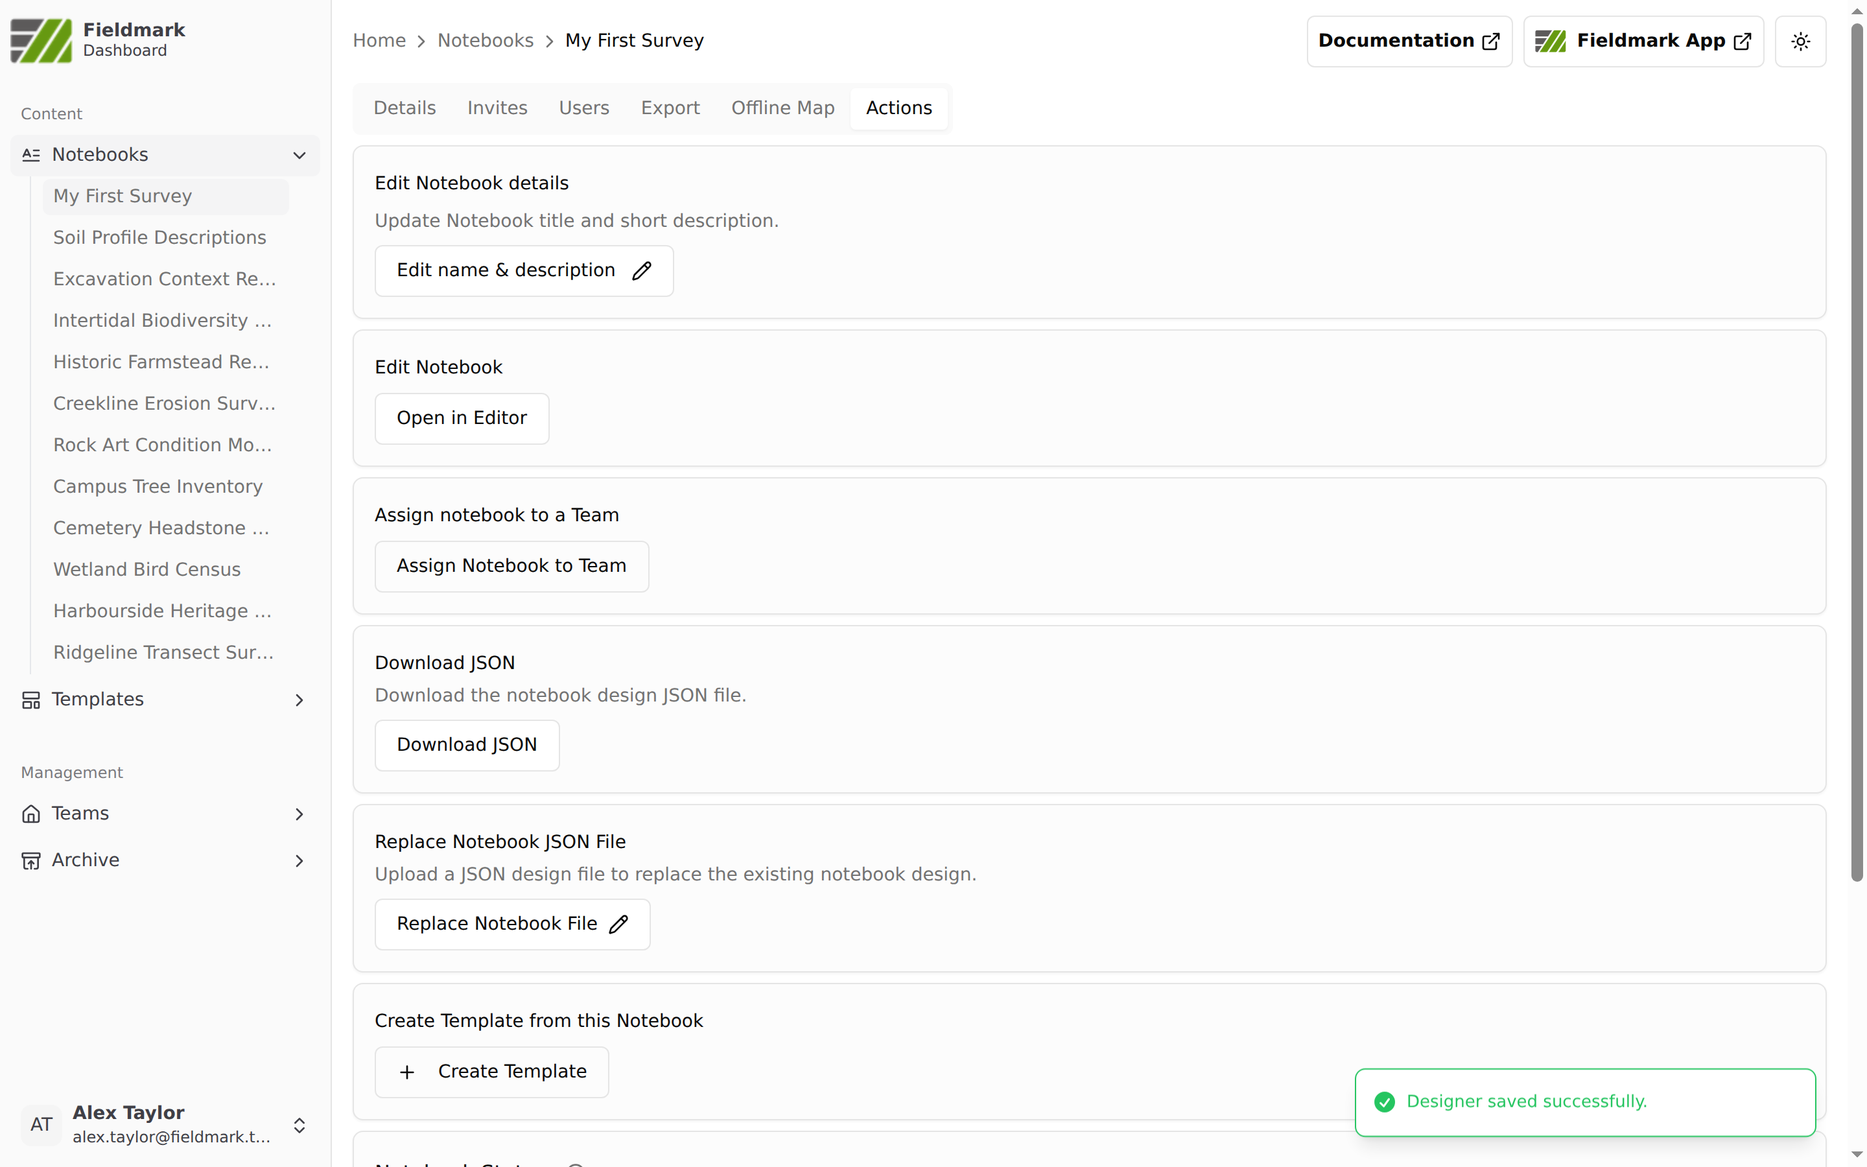
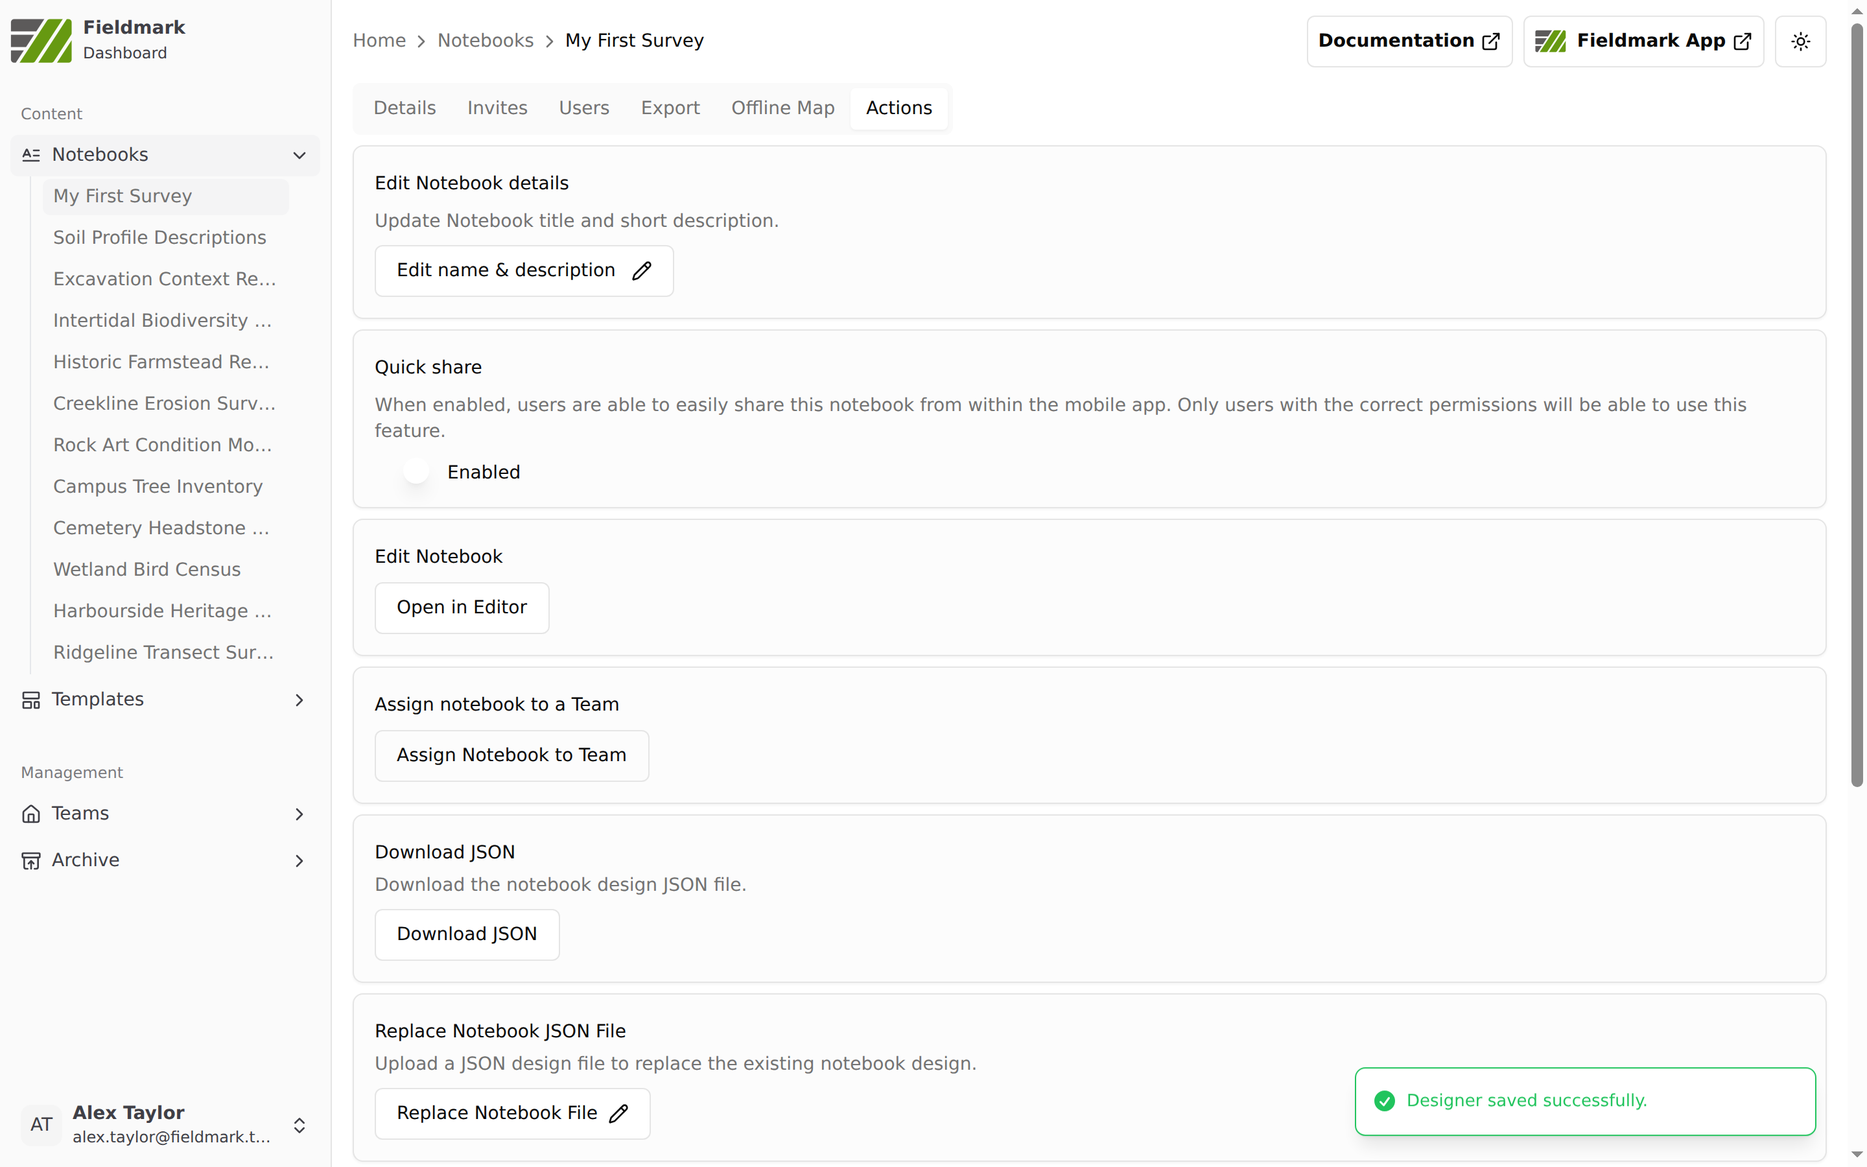
docs: update the first-notebook tutorial for v1.9.1
Brings the tutorial in line with the interface in v1.9.1, for the
hosted service's upgrade from 1.6.x. The photo step now uses the Camera
and Gallery buttons (#2222); the field editor no longer offers "Display
in child records" (#2233); the record view has a STATUS tab (#2238);
quick share adds a panel on the Dashboard's Actions tab, a SHARE THIS
NOTEBOOK panel in the app's settings, and a Share button on the record
list (#2372); and the activation help link is now "Learn more about
activating notebooks". 15 screenshots re-captured at v1.9.1 through the
docs capture specs, with alt text rewritten from the new frames.

Claude-Session: https://claude.ai/code/session_01BLwBnPLbwdVuVeNEfa81Bo

diff --git a/docs/user/authoring/first-notebook-tutorial.md b/docs/user/authoring/first-notebook-tutorial.md
@@ -1,6 +1,6 @@
 # Your First {{Notebook}} in 25-30 Minutes 🚀
 
-*Welcome to {{FAIMS}}! In the next 25-30 minutes, you'll create your first data collection {{notebook}} and enter your first record. No experience needed - just follow along!*
+*Welcome to {{FAIMS}}®! In the next 25-30 minutes, you'll create your first data collection {{notebook}} and enter your first record. No experience needed - just follow along!*
 
 ## What You'll Achieve
 
@@ -170,8 +170,12 @@ Offline Map, and Actions.
 1. Click the **Actions** tab
 2. Click **Open in Editor**
 
+The Actions tab also has a **Quick share** panel, set to **Enabled** by
+default. It lets users with the right permissions share the {{notebook}} from
+within the data collection app. You can leave it as it is for this tutorial.
+
 ```{screenshot} quickstart/qs-006-actions-tab-desktop.png
-:alt: Actions tab on the {{notebook}} page, with panels for Edit {{Notebook}} details, Edit {{Notebook}} containing the Open in Editor button, Assign {{notebook}} to a Team, Download JSON, Replace {{Notebook}} JSON File, Create Template from this {{Notebook}}, {{Notebook}} Status showing Open, and Archive {{Notebook}}
+:alt: Actions tab on the {{notebook}} page, with panels for Edit {{Notebook}} details, Quick share with a switch labelled Enabled, Edit {{Notebook}} containing the Open in Editor button, Assign {{notebook}} to a Team, Download JSON, Replace {{Notebook}} JSON File, Create Template from this {{Notebook}}, {{Notebook}} Status showing Open with a Close {{Notebook}} button, and Archive {{Notebook}} with its button unavailable until the {{notebook}} is closed
 :align: right
 :width: 100%
 ```
@@ -187,7 +191,8 @@ the main interface elements:
 - **Toolbar**: **Save** (blue), **Cancel**, **Undo**, and **Redo** buttons on
   the left, with a **Preview** toggle beside them
 - **Search design...**: A search box at the top right for finding fields in
-  large {{notebooks}} (press `/` to jump to it)
+  large {{notebooks}} (once your {{notebook}} has some content, press `/` to jump
+  to it)
 - **The Forms panel** with its blue **+ New Form** button. Two more panels,
   **Sections** and **Fields**, appear below it once you create your first
   form; each has its own blue "+ New ..." button
@@ -359,12 +364,12 @@ editor.
 >
 > 💡 **More in the field editor**: You'll also see Short answer / Long answer
 > options, a Default Text setting, a Voice-to-text toggle (on by default for
-> text fields), and an **Advanced controls** group: Display in child
-> records, Copy value to new records, Annotation, and Uncertainty. We'll use
-> Annotation and Uncertainty on the next field.
+> text fields), and an **Advanced controls** group: Copy value to new
+> records, Annotation, and Uncertainty. We'll use Annotation and Uncertainty
+> on the next field.
 
 ```{screenshot} quickstart/qs-012-site-name-editor-desktop.png
-:alt: Expanded Site Name field in the field editor: Label reads Site Name, Field ID reads Site-Name, Helper Text reads Enter the official site designation or name, Short answer is selected, Required is ticked, and the Advanced controls group shows unticked Display in child records, Copy value to new records, Annotation, and Uncertainty boxes above a Voice-to-text section
+:alt: Expanded Site Name field in the field editor, with Text field and Required badges under its header: Label reads Site Name, Field ID reads Site-Name, Helper Text reads Enter the official site designation or name, Short answer is selected above an empty Default Text box, Required is ticked, and the Advanced controls group shows unticked Copy value to new records, Annotation, and Uncertainty boxes above a Voice-to-text section with Enable voice-to-text input for this field ticked
 :align: right
 :width: 100%
 ```
@@ -430,7 +435,7 @@ Now let's add a choice field where users select one option from a list.
    - **Uncertainty**: Toggle ON ☑ (allows flagging uncertain observations)
 
 ```{screenshot} quickstart/qs-015-site-type-editor-desktop.png
-:alt: Expanded Site Type field showing the options table with Habitation, Mortuary, Ceremonial, Workshop/Industrial, Defensive, Agricultural, and Other in order, each row carrying a drag handle, up and down arrows, and edit and delete icons; below sit the Add option box with its Add button, an Add Other Option button, the Select-one display mode choice with Expanded checklist selected, and ticked Required, Annotation, and Uncertainty boxes with Annotation Label reading annotation and Uncertainty Label reading uncertainty
+:alt: Expanded Site Type field showing the options table with Habitation, Mortuary, Ceremonial, Workshop/Industrial, Defensive, Agricultural, and Other in order, each row carrying a drag handle, up and down arrows, and edit and delete icons; below sit the Add option box with its Add button, an Add Other Option button, the Select-one display mode choice with Expanded checklist selected, Required ticked, and an Advanced controls group with Copy value to new records unticked and Annotation and Uncertainty ticked, above Annotation Label and Uncertainty Label boxes reading annotation and uncertainty
 :align: right
 :width: 100%
 ```
@@ -450,7 +455,7 @@ Now let's add a choice field where users select one option from a list.
 >
 > 💡 **Pro Tip**: You can use markdown in option text - try `**Important Option**` to make text bold!
 
-**Quick Save**: Click the **SAVE** button at the left of the toolbar to save your progress.
+**Quick Save**: Click the **Save** button at the left of the toolbar to save your progress.
 
 #### Field 3: Site Photo (Camera)
 
@@ -478,7 +483,7 @@ Let's add the ability to capture photos - essential for field documentation!
    - **Annotation Label**: Change from "annotation" to **"Photo notes"**
 
 ```{screenshot} quickstart/qs-017-site-photo-editor-desktop.png
-:alt: Site Photo field expanded in the field editor beneath the collapsed Site Name and Site Type fields: Label reads Site Photo, Field ID reads Site-Photo, Helper Text reads Photograph the site for documentation, Required is unticked, and Annotation is ticked with the Annotation Label changed to Photo notes
+:alt: Site Photo field expanded in the field editor beneath the collapsed Site Name and Site Type fields, with a TakePhoto badge under its header: Label reads Site Photo, Field ID reads Site-Photo, Helper Text reads Photograph the site for documentation, Required is unticked, and in the Advanced controls group Copy value to new records and Uncertainty are unticked whilst Annotation is ticked, with the Annotation Label changed to Photo notes
 :align: right
 :width: 100%
 ```
@@ -536,7 +541,7 @@ Now let's configure how the form behaves when collecting data.
 3. **Configure the settings**:
    - **Layout Style**: Leave as **"Tabs"** (sections display as tabs for organised navigation)
    - **Summary Fields**: Click the dropdown and select both **"Site Name"** and **"Site Type"** (these will show in the record list table)
-   - **Human-Readable ID Field**: Select **"Site Name"** (provides meaningful record labels instead of opaque, computer-generated identifiers (UUIDs)). Only **required fields that hold text** are offered in this dropdown (Site Type qualifies too), which is why we made Site Name required
+   - **Human-Readable ID Field**: Select **"Site Name"** (provides meaningful record labels instead of opaque, computer-generated identifiers (UUIDs)). Only **required fields that hold text** are offered in this dropdown, which is why we made Site Name required. A required single-choice field such as Site Type also qualifies, so you will see it listed too
    - **Overview Map**: Leave as **"Show spatial features"** (controls whether
      spatial data from this form, such as points, lines, and polygons,
      appears on the {{notebook}}'s overview map)
@@ -585,7 +590,7 @@ Now let's configure how the form behaves when collecting data.
    **"Open in Editor"** again
 
 ```{screenshot} quickstart/qs-022-designer-saved-desktop.png
-:alt: {{Notebook}} page on the Actions tab immediately after saving, with a green message in the bottom corner reading Designer saved successfully
+:alt: {{Notebook}} page on the Actions tab immediately after saving, showing the Edit {{Notebook}} details, Quick share, Edit {{Notebook}}, Assign {{notebook}} to a Team, Download JSON, and Replace {{Notebook}} JSON File panels, with a green message in the bottom-right corner reading Designer saved successfully
 :align: right
 :width: 100%
 ```
@@ -610,7 +615,7 @@ Your {{notebook}} has been saved in the Editor. Now let's activate it for data c
 2. **Log in** with the same credentials you used to access the Editor
 
 ```{screenshot} quickstart/qs-023-app-active-zero-desktop.png
-:alt: {{FAIMS}} app My {{Notebooks}} screen: server name {{FAIMS}}, green REFRESH and ADD NOTEBOOK buttons, a Learn about activating and de-activating {{notebooks}} link, the ACTIVE tab selected with a count of 0 and an empty table reading No rows, a NOT ACTIVE tab with a count, and text beneath the table explaining that {{notebooks}} need to be activated before they can be used
+:alt: {{FAIMS}} app My {{Notebooks}} screen: server name {{FAIMS}}, green REFRESH and ADD NOTEBOOK buttons, a Learn more about activating {{notebooks}} link, the ACTIVE tab selected with a count of 0 and an empty table reading No rows, a NOT ACTIVE tab with a count of 12, and text beneath the table explaining that {{notebooks}} in the NOT ACTIVE tab need to be activated before they can be used
 :align: right
 :width: 100%
 ```
@@ -618,12 +623,12 @@ Your {{notebook}} has been saved in the Editor. Now let's activate it for data c
 ### Activate Your {{Notebook}}
 
 When the app opens, you'll see the "My {{Notebooks}}" screen, with **REFRESH**
-and **ADD NOTEBOOK** buttons, a "Learn about activating/de-activating
-{{notebooks}}" link, and two tabs: **ACTIVE** and **NOT ACTIVE** (the number in
+and **ADD NOTEBOOK** buttons, a "Learn more about activating {{notebooks}}"
+link, and two tabs: **ACTIVE** and **NOT ACTIVE** (the number in
 parentheses on each tab is a count of {{notebooks}}):
 
 ```{screenshot} quickstart/qs-024-not-active-tab-desktop.png
-:alt: NOT ACTIVE tab listing {{notebooks}} by name, each row with a green ACTIVATE button; My First Survey sits at the top, above other {{notebooks}} that carry short descriptions
+:alt: NOT ACTIVE tab selected with a count of 12, listing {{notebooks}} by name, each row with a green-outlined ACTIVATE button; My First Survey sits at the top, above other {{notebooks}} that carry short descriptions
 :align: right
 :width: 100%
 ```
@@ -650,12 +655,12 @@ parentheses on each tab is a count of {{notebooks}}):
 3. **You'll be automatically taken to the "ACTIVE" tab** - your {{notebook}} now appears in the Active list
 
 > 💡 {{Notebooks}} can also be **de-activated** later from the {{notebook}}'s
-> Settings tab (see [{{Notebook}} Settings](#notebook-settings) below). The app's
-> header has a "Learn about activating/de-activating {{notebooks}}" link if you
+> Settings tab (see [{{Notebook}} Settings](#notebook-settings) below). The My
+> {{Notebooks}} screen has a "Learn more about activating {{notebooks}}" link if you
 > want the details.
 
 ```{screenshot} quickstart/qs-026-active-one-desktop.png
-:alt: ACTIVE tab with a count of 1, listing My First Survey under the Name column header
+:alt: ACTIVE tab selected with a count of 1, listing My First Survey under the Name column header, beside a NOT ACTIVE tab now counting 11
 :align: right
 :width: 100%
 ```
@@ -686,6 +691,9 @@ Now let's open your {{notebook}} to start collecting data:
 
 You'll see the record list interface:
 
+- **Share** button (green, top right): opens a dialogue that generates a
+  temporary QR code for sharing the {{notebook}} with another user. It does the
+  same job as the Quick share panel on the SETTINGS tab
 - **ADD NEW SITE DETAILS** button - for creating new records
 - **REFRESH RECORDS** button - refreshes the displayed list from the local
   database (useful to see records synced in the background)
@@ -700,7 +708,7 @@ You'll see the record list interface:
 - Because this is a brand new {{notebook}}, the table is empty
 
 ```{screenshot} quickstart/qs-027-record-list-empty-desktop.png
-:alt: Empty record list for My First Survey: an orange ADD NEW SITE DETAILS button, a REFRESH RECORDS button, tabs MY SITE DETAILSS (0), MAP, DETAILS, and SETTINGS, a Search record data box with a Sort By dropdown reading Recently Updated, and an empty table with Sync, Site Name, Site Type, Created, Created By, Last Updated, and Last Updated By columns reading No rows, with pagination reading Rows per page 25 and 0 to 0 of 0
+:alt: Empty record list for My First Survey: a Back link beside the {{notebook}} name and a green Share button at the top right, above an orange ADD NEW SITE DETAILS button, a REFRESH RECORDS button, tabs MY SITE DETAILSS (0), MAP, DETAILS, and SETTINGS, a Search record data box with a Sort By dropdown reading Recently Updated, and an empty table with Sync, Site Name, Site Type, Created, Created By, Last Updated, and Last Updated By columns reading No rows, with pagination reading Rows per page 25 and 0 to 0 of 0
 :align: right
 :width: 100%
 ```
@@ -743,17 +751,19 @@ You'll see the data entry form with:
    - This is a powerful feature for capturing data quality context!
 
    ```{screenshot} quickstart/qs-029-annotation-interface-desktop.png
-   :alt: Site Type options with the annotation area open below them: the annotation text box contains Surface scatter suggests domestic occupation, but no structures visible, and the uncertainty checkbox beneath it is ticked; further down, the Site Photo section shows No Photos Yet with a green TAKE FIRST PHOTO button
+   :alt: Lower Site Type options with the annotation area open below them: the annotation text box contains Surface scatter suggests domestic occupation, but no structures visible, and the uncertainty checkbox beneath it is ticked; further down, the Site Photo section reads No photos selected yet above two green icon buttons labelled Camera and Gallery
    :align: right
    :width: 100%
    ```
 
 4. **Add a Site Photo**:
    - Scroll to the Site Photo section
-   - You'll see "No Photos Yet" with a **"TAKE FIRST PHOTO"** button
-   - Click the green photo button
-   - Allow camera permissions if asked
-   - Take any photo (even of your desk - this is just practice!)
+   - You'll see "No photos selected yet" with two buttons: **Camera** and
+     **Gallery**
+   - Click **Camera** to take a new photo, or **Gallery** to choose photos
+     already on your device (you can select several at once)
+   - Allow camera or photo access if your device or browser asks
+   - Take or choose any photo (even of your desk - this is just practice!)
    - Note: Site Photo also has a blue dog ear icon for "Photo notes" annotation
 
 ```{screenshot} quickstart/qs-031-record-form-complete-desktop.png
@@ -794,7 +804,7 @@ Congratulations! 🎉 You've just created your first {{FAIMS}} record!
 You're automatically returned to the record list view. Here's what you'll see:
 
 ```{screenshot} quickstart/qs-032-record-list-unsynced-desktop.png
-:alt: Record list with the MY SITE DETAILSS tab counting 1: the single row shows an orange three-dot icon in the Sync column, Test Location Alpha under Site Name, Habitation under Site Type, and matching Created and Last Updated timestamps, with pagination reading 1 to 1 of 1
+:alt: Record list with the MY SITE DETAILSS tab counting 1: the single row shows an orange three-dot icon in the Sync column, Test Location Alpha under Site Name, Habitation under Site Type, Created and Last Updated timestamps a few seconds apart, and the capture user's email under Created By and Last Updated By, with pagination reading 1 to 1 of 1. The green Share button sits at the top right
 :align: right
 :width: 100%
 ```
@@ -807,7 +817,7 @@ You're automatically returned to the record list view. Here's what you'll see:
   - **Site Type**: "Habitation" (Summary Field #2)
   - **Created**: Timestamp like "8/3/2026, 1:05:02 AM"
   - **Created By**: Your username (e.g., "alex.taylor@fieldmark.test")
-  - **Last Updated**: Same as Created for a new record
+  - **Last Updated**: Close to Created for a new record
   - **Last Updated By**: Your username
 - **Pagination** at bottom shows "1-1 of 1"
 
@@ -816,7 +826,7 @@ You're automatically returned to the record list view. Here's what you'll see:
 > If multiple team members edit the same record while offline, {{FAIMS}} has a conflict resolution interface in the data collection app to help you merge changes.
 
 ```{screenshot} quickstart/qs-033-record-list-synced-desktop.png
-:alt: The same record list row with the Sync column now showing a green cloud icon with a tick, indicating the record has synced to the server
+:alt: The same record list row with the Sync column now showing a green cloud icon with a tick, indicating the record has synced to the server. The other values are unchanged
 :align: right
 :width: 100%
 ```
@@ -829,7 +839,7 @@ You can click on any record in the list to view its details:
 2. **The Record View opens** showing all your captured data
 
 ```{screenshot} quickstart/qs-034-record-view-desktop.png
-:alt: Record view headed Viewing Site Details with Test Location Alpha beneath it, RECORD, INFO, and HISTORY tabs, a full progress bar, an EDIT RECORD button, and a Basic Information panel listing Site Name Test Location Alpha, Site Type Habitation, and Site Photo with no images to display
+:alt: Record view headed Viewing Site Details with Test Location Alpha beneath it, RECORD, INFO, HISTORY, and STATUS tabs, a full progress bar reading Completed 100 percent, 2 of 2 required fields, an EDIT RECORD button, and a Basic Information panel listing Site Name Test Location Alpha, Site Type Habitation, and Site Photo with no images to display
 :align: right
 :width: 100%
 ```
@@ -839,7 +849,8 @@ From here you can:
 - **Review all field values** in a read-only format
 - **Click EDIT RECORD** to make changes
 - **Switch to INFO tab** to see metadata (creation time, last update, etc.),
-  or the **HISTORY tab** to see the record's edit history
+  the **HISTORY tab** to see the record's edit history, or the **STATUS
+  tab** to see how complete the record is
 - **Click Back** to return to the record list
 
 (notebook-settings)=
@@ -850,12 +861,18 @@ Before we finish, let's explore the SETTINGS tab to understand sync and data man
 1. **Click on the SETTINGS tab** (next to the MY SITE DETAILSS, MAP, and DETAILS tabs)
 
 ```{screenshot} quickstart/qs-035-settings-tab-desktop.png
-:alt: SETTINGS tab with three panels: Sync Mode showing Upload and download above the helper text Choose how this {{notebook}} syncs record data with the server; Get attachments from other devices with its toggle Off and an explanation of the trade-offs; and De-activate {{Notebook}} with warning text and a red DE-ACTIVATE NOTEBOOK button
+:alt: SETTINGS tab with four panels: Quick share, reading Share this {{notebook}} with another user by generating a temporary QR code, with a SHARE THIS NOTEBOOK button; Sync Mode showing Upload and download above the helper text Choose how this {{notebook}} syncs record data with the server; Get attachments from other devices with its toggle Off and an explanation of the trade-offs; and De-activate {{Notebook}} with warning text and a red DE-ACTIVATE NOTEBOOK button
 :align: right
 :width: 100%
 ```
 
 You'll see several important controls:
+
+**Quick share**
+
+- **SHARE THIS NOTEBOOK** generates a temporary QR code for sharing the
+  {{notebook}} with another user. The green **Share** button above the tabs
+  opens the same dialogue
 
 **Sync Mode**
 
@@ -871,7 +888,7 @@ You'll see several important controls:
   sync mode never deletes anything
 
 ```{screenshot} quickstart/qs-036-sync-mode-open-desktop.png
-:alt: Sync Mode select open, listing three options: Sync off (local device only), Upload only, and Upload and download, with Upload and download selected
+:alt: SETTINGS tab with the Sync Mode select open below the Quick share panel, listing three options: Sync off (local device only), Upload only, and Upload and download, with Upload and download highlighted as the current choice
 :align: right
 :width: 100%
 ```
